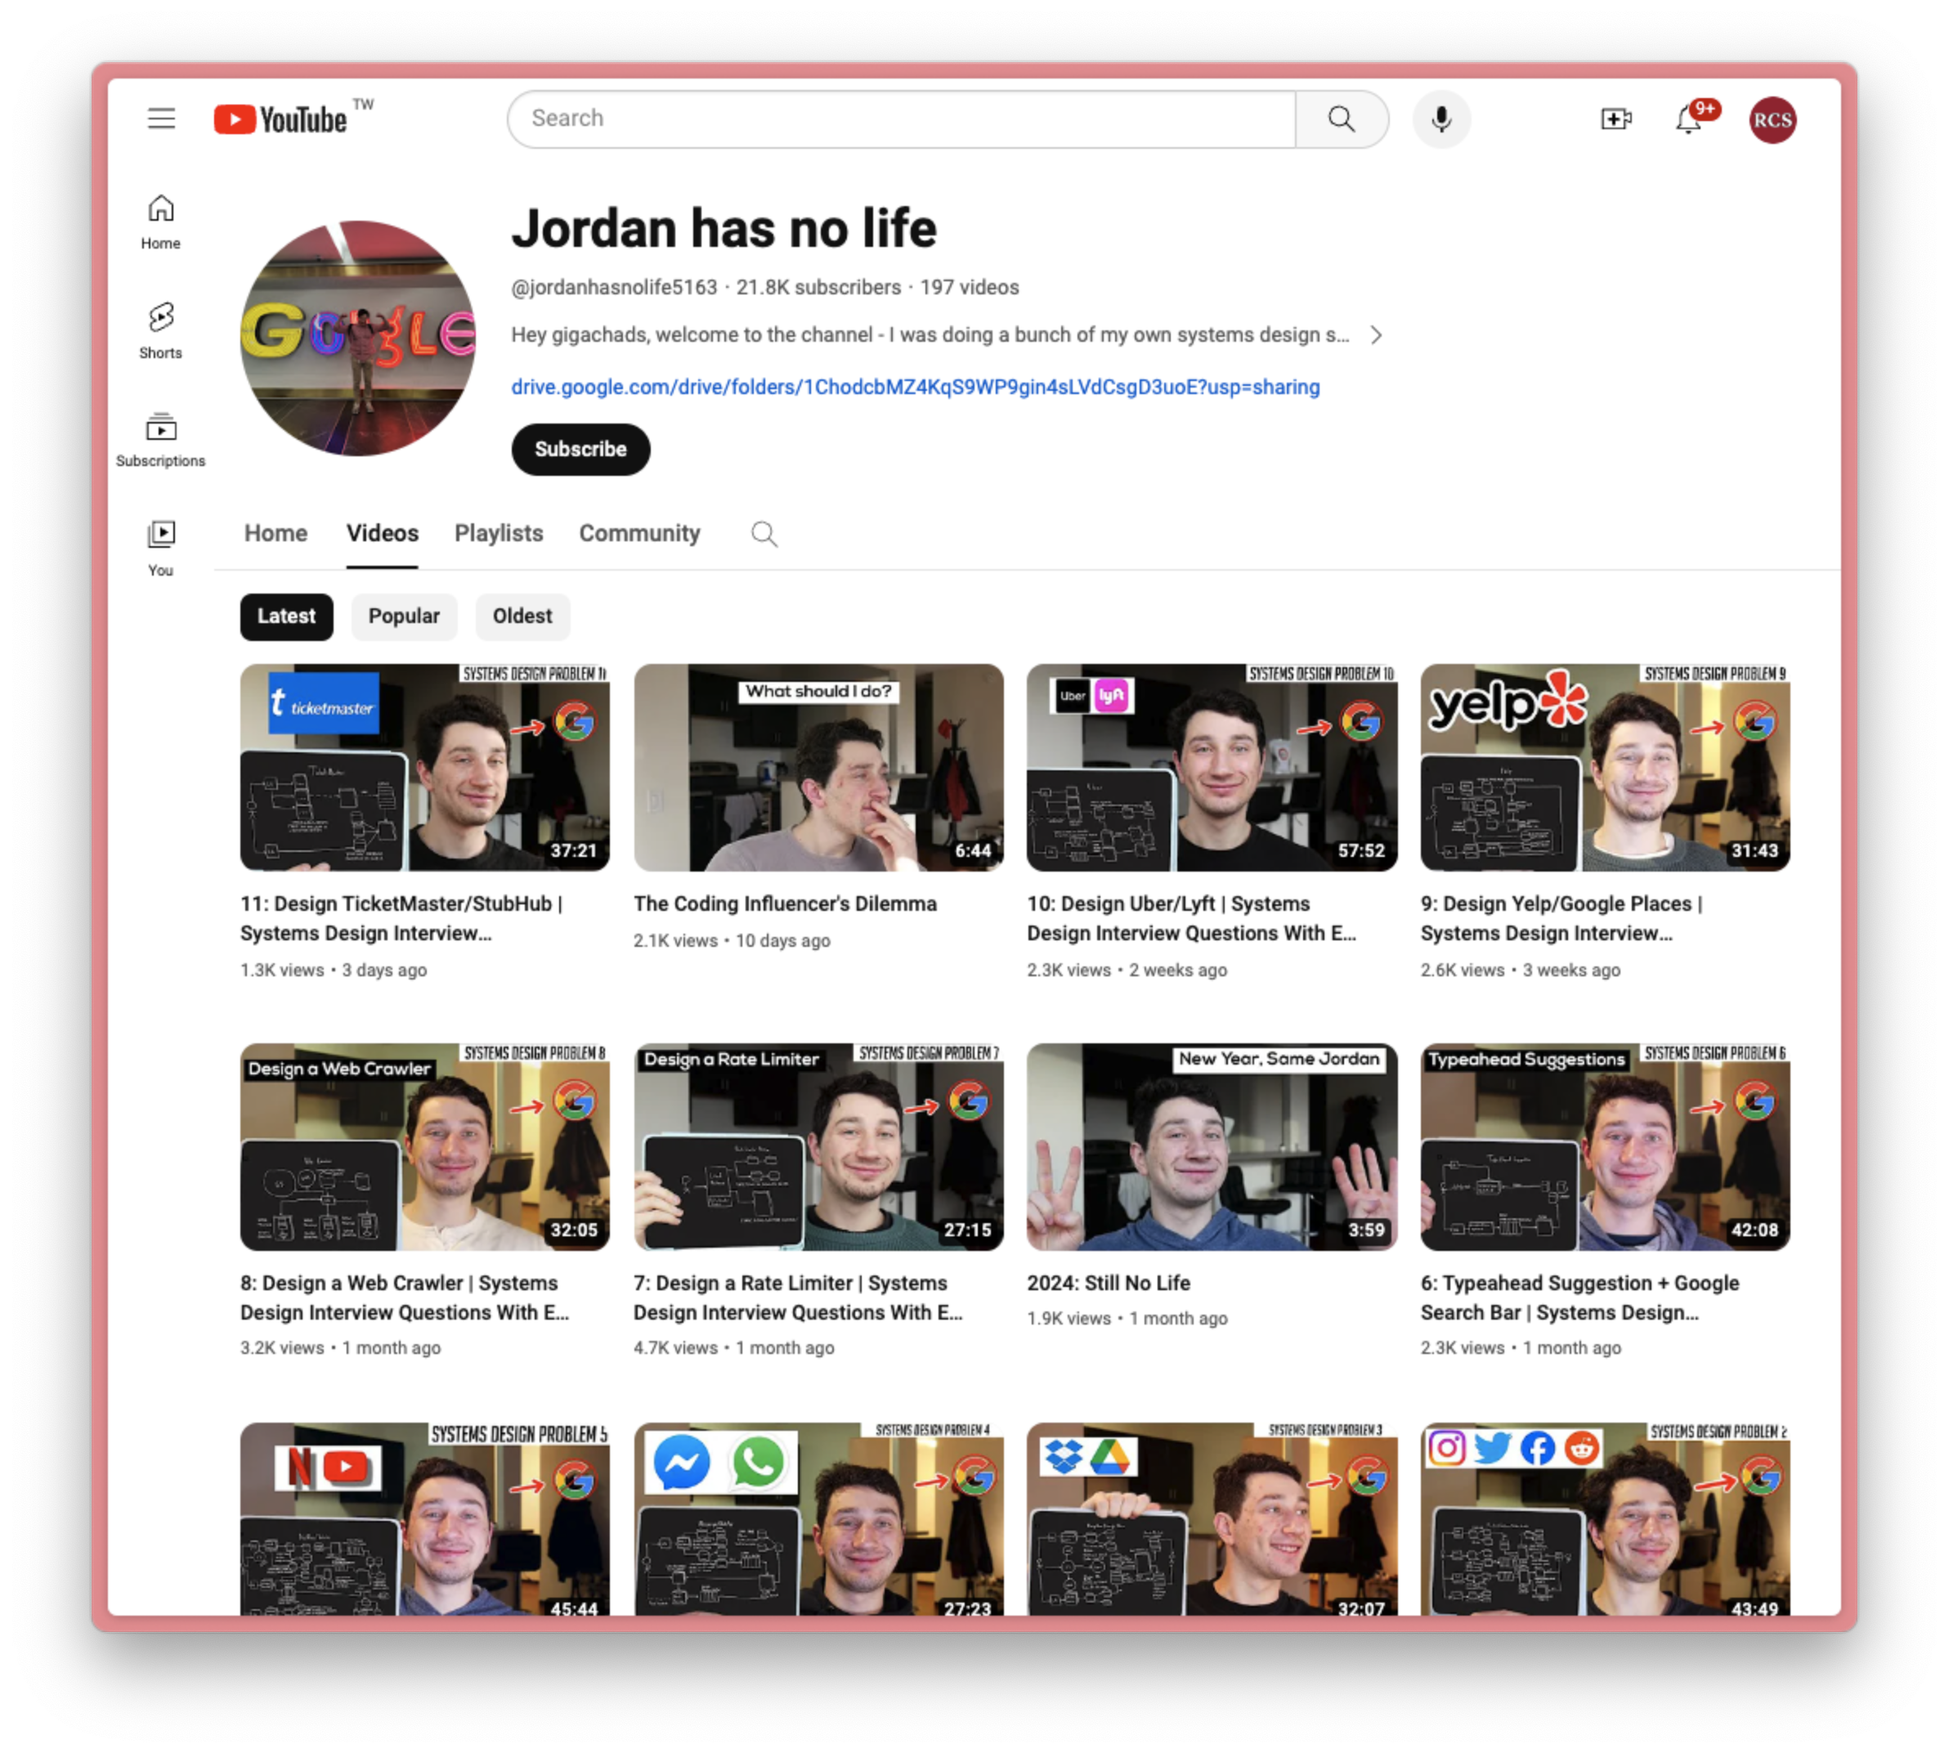
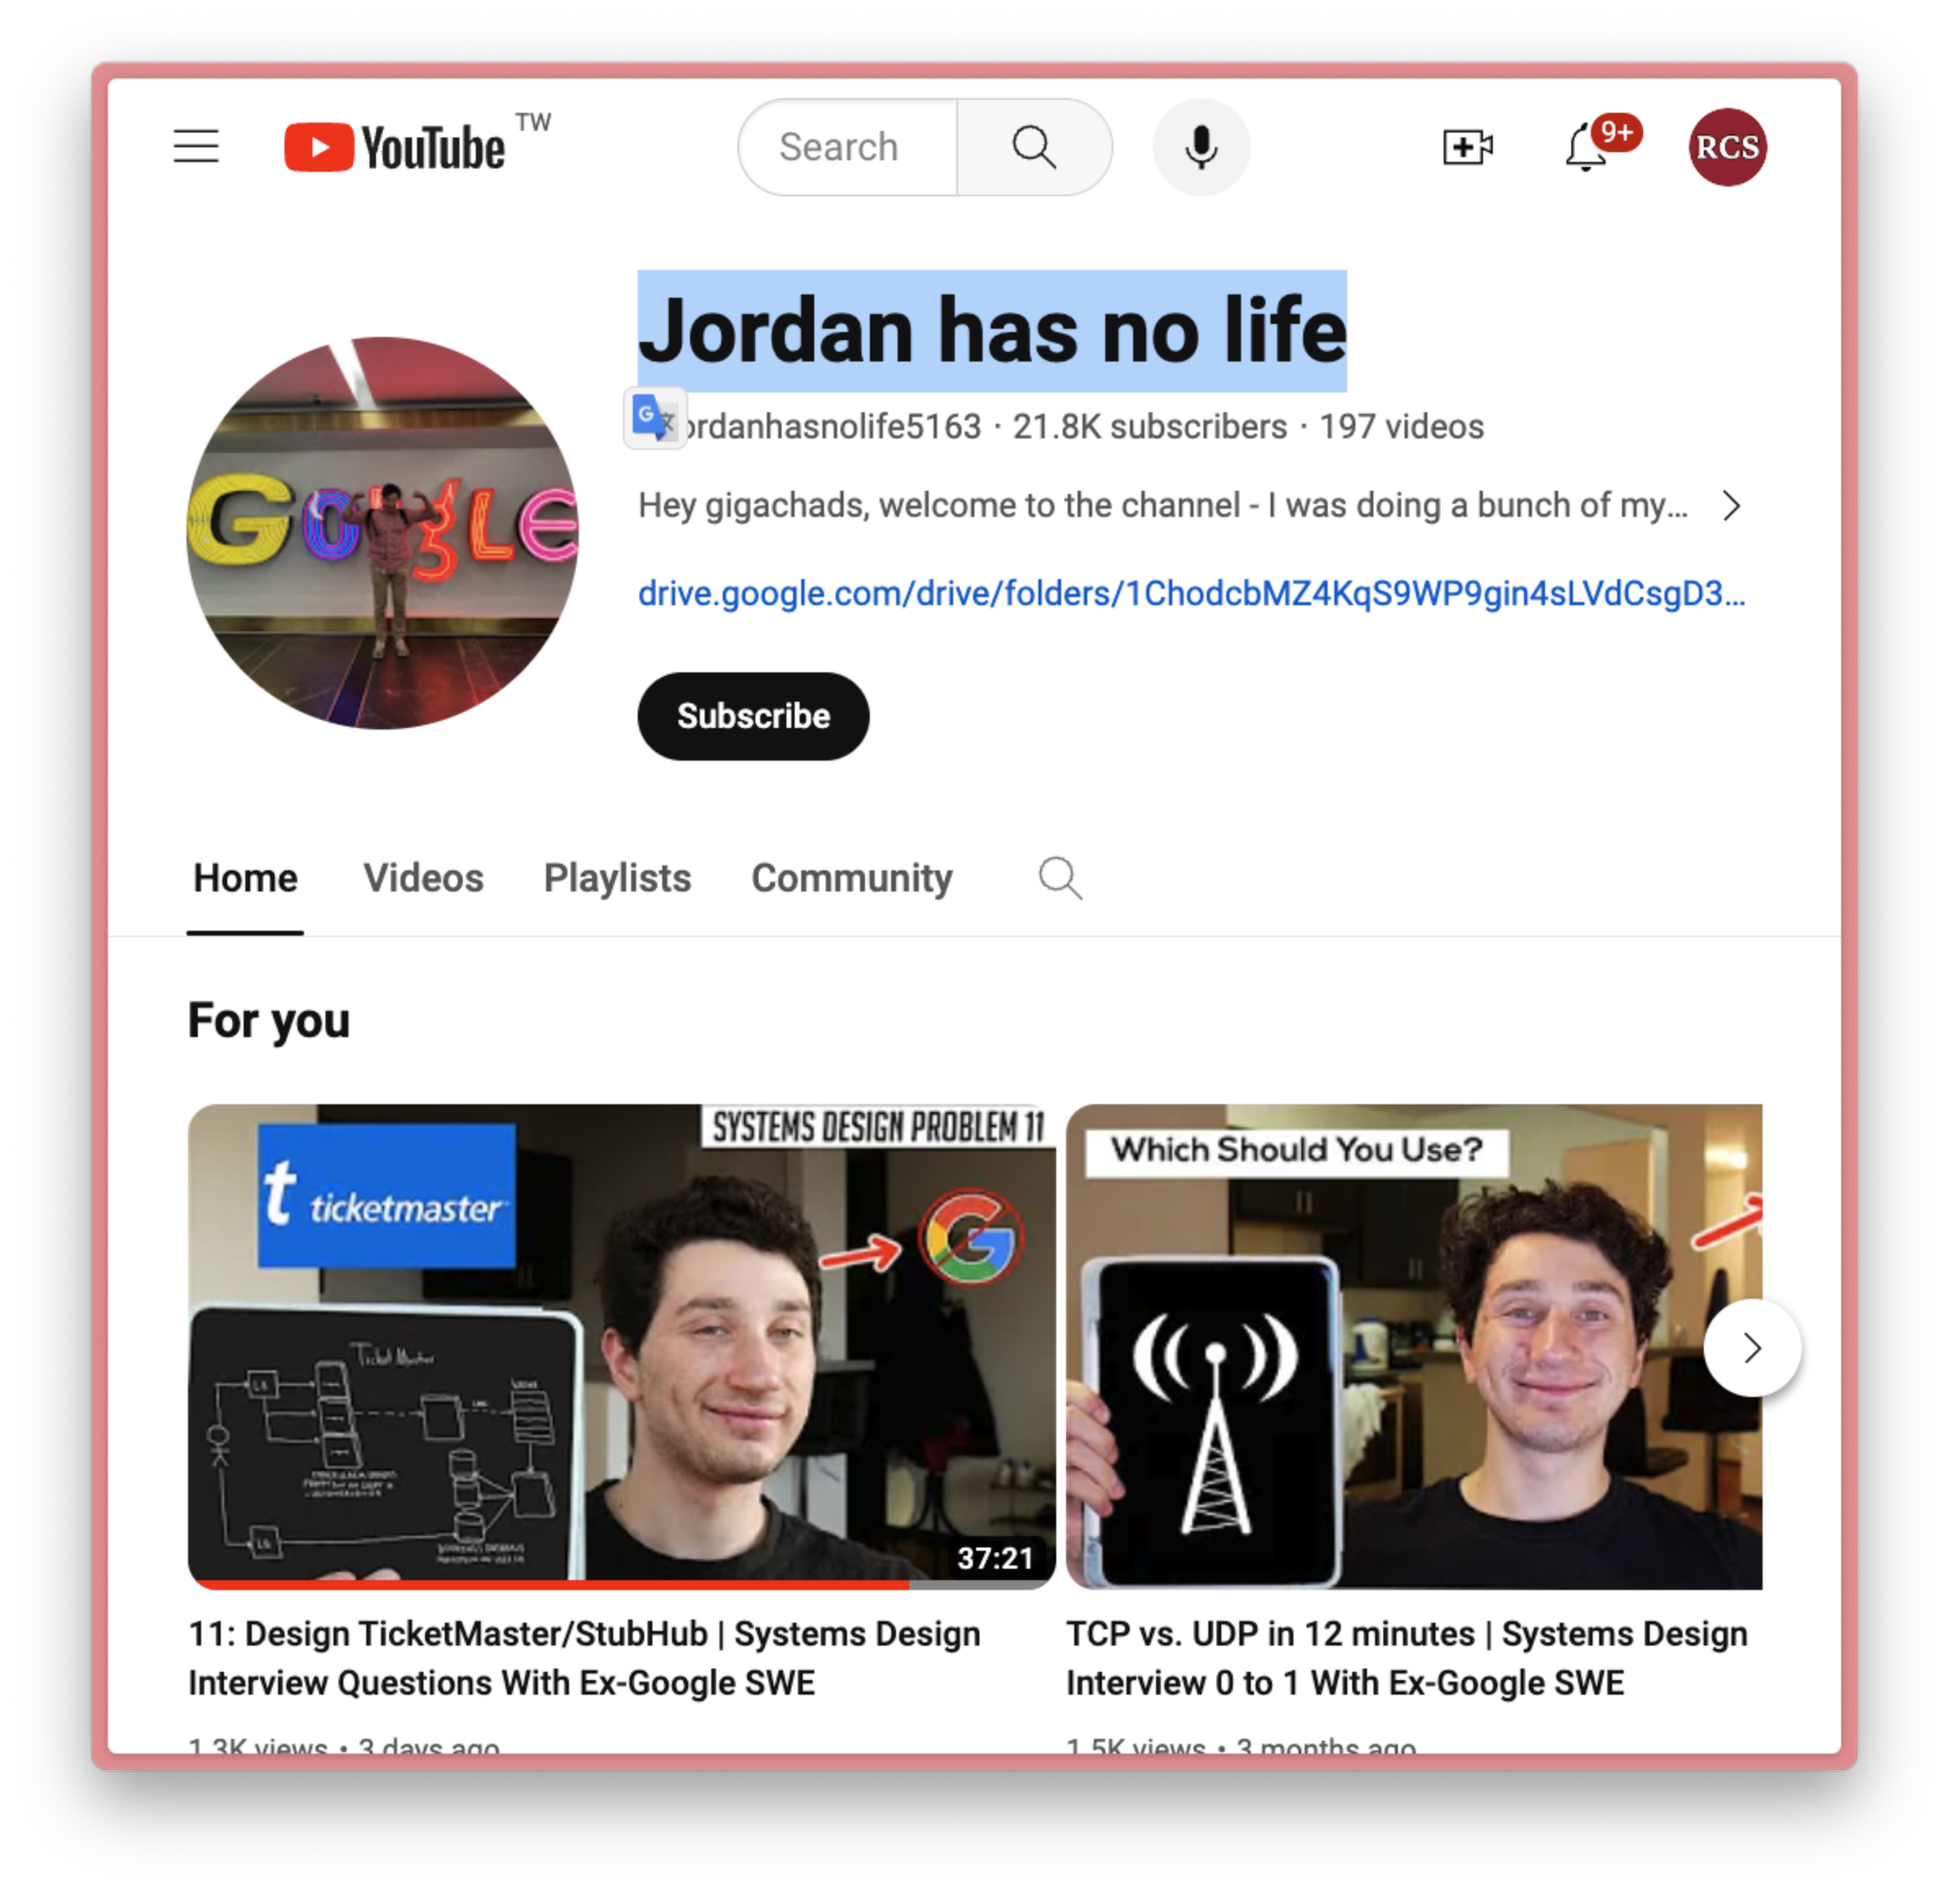
GITBOOK-56: No subject

diff --git a/rcs.101/media/resources.md b/rcs.101/media/resources.md
@@ -23,10 +23,27 @@ layout:
 各種編排 roadmap 所使用的參考資料、教材，會被整理在這
 {% endhint %}
 
-## [Broken link](broken-reference "mention")
+<details>
 
-{% embed url="https://www.youtube.com/@jordanhasnolife5163/videos" %}
+<summary><a data-mention href="broken-reference">Broken link</a></summary>
 
+## Jordan has no life
 
+* [https://www.youtube.com/@jordanhasnolife5163/featured](https://www.youtube.com/@jordanhasnolife5163/featured)
 
-<table data-view="cards"><thead><tr><th></th><th></th><th></th></tr></thead><tbody><tr><td><h2>Jordan has no life</h2></td><td><a href="https://www.youtube.com/@jordanhasnolife5163/videos">https://www.youtube.com/@jordanhasnolife5163/videos</a></td><td><img src="../.gitbook/assets/image (1).png" alt="" data-size="original"></td></tr><tr><td></td><td></td><td></td></tr><tr><td></td><td></td><td></td></tr></tbody></table>
+## ByteByteGo
+
+* System Design Interview – An insider's guide
+* System Design Interview – An Insider's Guide: Volume 2
+
+## Designing Data-Intensive Applications
+
+* [https://dataintensive.net/](https://dataintensive.net/)
+
+## 凤凰架构 - 构建可靠的大型分布式系统
+
+* [https://icyfenix.cn/](https://icyfenix.cn/)
+
+</details>
+
+####

diff --git a/rcs.101/info/ru-he-can-yu-xue-xi.md b/rcs.101/info/ru-he-can-yu-xue-xi.md
@@ -5,10 +5,10 @@ coverY: 0
 
 # 🙋 如何參與學習？
 
-<figure><img src="../.gitbook/assets/image (2).png" alt=""><figcaption></figcaption></figure>
-
-<figure><img src="../.gitbook/assets/image (1) (1).png" alt=""><figcaption></figcaption></figure>
-
 <figure><img src="../.gitbook/assets/image (2) (1).png" alt=""><figcaption></figcaption></figure>
+
+<figure><img src="../.gitbook/assets/image (1) (1) (1).png" alt=""><figcaption></figcaption></figure>
+
+<figure><img src="../.gitbook/assets/image (2) (1) (1).png" alt=""><figcaption></figcaption></figure>
 
 <figure><img src="../.gitbook/assets/image (4).png" alt=""><figcaption></figcaption></figure>
